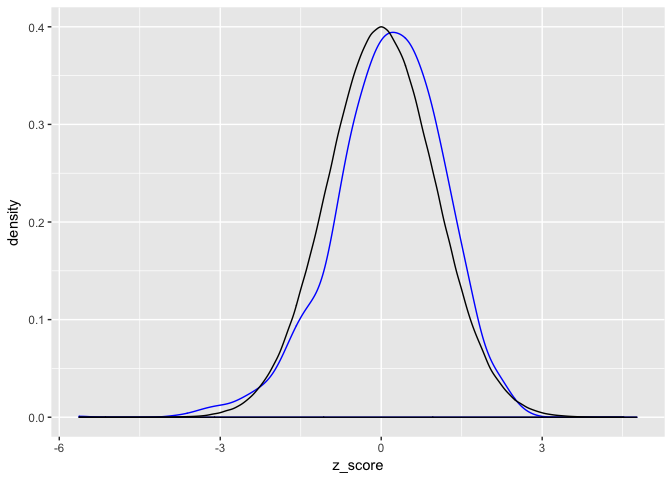
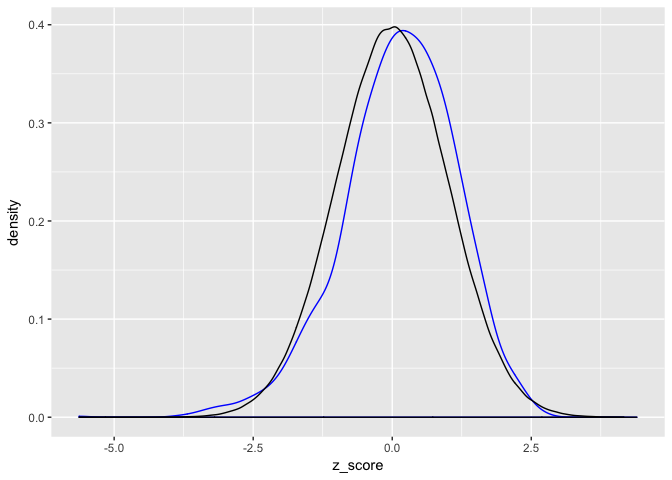
Updated and re-compiled the README

diff --git a/README.md b/README.md
@@ -1,7 +1,7 @@
 rubias --- genetic stock identification (GSI) in the tidyverse
 ==============================================================
 ================
-14 September, 2017
+18 December, 2017
 
 -   [Input Data](#input-data)
     -   [An example reference data file](#an-example-reference-data-file)
@@ -102,19 +102,19 @@ This is done with the `infer_mixture` function. In the example data `chinook_mix
 mix_est <- infer_mixture(reference = chinook, 
                          mixture = chinook_mix, 
                          gen_start_col = 5)
-#> Collating data; compiling reference allele frequencies, etc.   time: 3.56 seconds
-#> Computing reference locus specific means and variances for computing mixture z-scores   time: 0.28 seconds
+#> Collating data; compiling reference allele frequencies, etc.   time: 2.28 seconds
+#> Computing reference locus specific means and variances for computing mixture z-scores   time: 0.31 seconds
 #> Working on mixture collection: rec2 with 772 individuals
-#>   calculating log-likelihoods of the mixture individuals.   time: 0.12 seconds
-#>   performing 100 burn-in and 2000 more sweeps of method "MCMC"   time: 0.62 seconds
-#>   tidying output into a tibble.   time: 0.11 seconds
+#>   calculating log-likelihoods of the mixture individuals.   time: 0.13 seconds
+#>   performing 100 burn-in and 2000 more sweeps of method "MCMC"   time: 0.64 seconds
+#>   tidying output into a tibble.   time: 0.13 seconds
 #> Working on mixture collection: rec1 with 743 individuals
 #>   calculating log-likelihoods of the mixture individuals.   time: 0.11 seconds
-#>   performing 100 burn-in and 2000 more sweeps of method "MCMC"   time: 0.61 seconds
-#>   tidying output into a tibble.   time: 0.11 seconds
+#>   performing 100 burn-in and 2000 more sweeps of method "MCMC"   time: 0.63 seconds
+#>   tidying output into a tibble.   time: 0.12 seconds
 #> Working on mixture collection: rec3 with 741 individuals
 #>   calculating log-likelihoods of the mixture individuals.   time: 0.12 seconds
-#>   performing 100 burn-in and 2000 more sweeps of method "MCMC"   time: 0.60 seconds
+#>   performing 100 burn-in and 2000 more sweeps of method "MCMC"   time: 0.62 seconds
 #>   tidying output into a tibble.   time: 0.11 seconds
 ```
 
@@ -133,23 +133,23 @@ lapply(mix_est, head)
 #> # A tibble: 6 x 4
 #>   mixture_collection         repunit           collection           pi
 #>                <chr>           <chr>                <chr>        <dbl>
-#> 1               rec2 CentralValleyfa         Feather_H_sp 7.746633e-02
-#> 2               rec2 CentralValleysp          Butte_Cr_Sp 5.241380e-05
-#> 3               rec2 CentralValleysp           Mill_Cr_sp 7.748003e-05
-#> 4               rec2 CentralValleysp           Deer_Cr_sp 7.924887e-05
-#> 5               rec2 CentralValleysp UpperSacramento_R_sp 3.486181e-04
-#> 6               rec2 CentralValleyfa         Feather_H_fa 1.549169e-01
+#> 1               rec2 CentralValleyfa         Feather_H_sp 7.549900e-02
+#> 2               rec2 CentralValleysp          Butte_Cr_Sp 2.475748e-05
+#> 3               rec2 CentralValleysp           Mill_Cr_sp 5.416542e-05
+#> 4               rec2 CentralValleysp           Deer_Cr_sp 3.885431e-05
+#> 5               rec2 CentralValleysp UpperSacramento_R_sp 1.105380e-04
+#> 6               rec2 CentralValleyfa         Feather_H_fa 1.562998e-01
 #> 
 #> $indiv_posteriors
 #> # A tibble: 6 x 10
 #>   mixture_collection   indiv         repunit     collection         PofZ
 #>                <chr>   <chr>           <chr>          <chr>        <dbl>
-#> 1               rec2 T124711 CentralValleyfa   Feather_H_sp 1.768537e-28
-#> 2               rec2 T124711 CentralValleyfa   Feather_H_fa 1.013995e-27
-#> 3               rec2 T124711 CentralValleyfa    Butte_Cr_fa 1.549318e-24
-#> 4               rec2 T124711 CentralValleyfa     Mill_Cr_fa 4.934922e-29
-#> 5               rec2 T124711 CentralValleyfa     Deer_Cr_fa 6.065893e-29
-#> 6               rec2 T124711 CentralValleyfa Mokelumne_R_fa 1.802121e-27
+#> 1               rec2 T124711 CentralValleyfa   Feather_H_sp 1.735183e-28
+#> 2               rec2 T124711 CentralValleyfa   Feather_H_fa 1.030479e-27
+#> 3               rec2 T124711 CentralValleyfa    Butte_Cr_fa 1.537401e-24
+#> 4               rec2 T124711 CentralValleyfa     Mill_Cr_fa 1.810530e-29
+#> 5               rec2 T124711 CentralValleyfa     Deer_Cr_fa 2.616378e-28
+#> 6               rec2 T124711 CentralValleyfa Mokelumne_R_fa 1.877435e-27
 #> # ... with 5 more variables: log_likelihood <dbl>, z_score <dbl>,
 #> #   n_non_miss_loci <dbl>, n_miss_loci <dbl>, missing_loci <list>
 #> 
@@ -235,12 +235,12 @@ top6_cis
 #> # A tibble: 6 x 3
 #>                   repunit         loCI       hiCI
 #>                     <chr>        <dbl>      <dbl>
-#> 1         CaliforniaCoast 1.854064e-02 0.04319621
-#> 2         CentralValleyfa 7.917207e-01 0.84712308
-#> 3                KlamathR 4.879989e-02 0.08664488
-#> 4 NCaliforniaSOregonCoast 3.133804e-03 0.01782767
-#> 5                  RogueR 4.362364e-02 0.08123198
-#> 6          UColumbiaRsufa 2.179996e-24 0.01108570
+#> 1         CaliforniaCoast 1.813367e-02 0.04359228
+#> 2         CentralValleyfa 7.902512e-01 0.84657520
+#> 3                KlamathR 4.989110e-02 0.08669630
+#> 4 NCaliforniaSOregonCoast 3.206421e-03 0.01790917
+#> 5                  RogueR 4.509500e-02 0.08088104
+#> 6          UColumbiaRsufa 1.449912e-16 0.01238944
 ```
 
 Assessing whether individuals are not from any of the reference populations
@@ -423,12 +423,12 @@ top6
 #> # Groups:   mixture_collection [1]
 #>   mixture_collection                 repunit     repprop
 #>                <chr>                   <chr>       <dbl>
-#> 1               rec1         CentralValleyfa 0.820447954
-#> 2               rec1                KlamathR 0.066933892
-#> 3               rec1                  RogueR 0.061517017
-#> 4               rec1         CaliforniaCoast 0.029707172
-#> 5               rec1 NCaliforniaSOregonCoast 0.009124338
-#> 6               rec1          UColumbiaRsufa 0.003302783
+#> 1               rec1         CentralValleyfa 0.820476740
+#> 2               rec1                KlamathR 0.066985471
+#> 3               rec1                  RogueR 0.061915444
+#> 4               rec1         CaliforniaCoast 0.029904244
+#> 5               rec1 NCaliforniaSOregonCoast 0.009034470
+#> 6               rec1          UColumbiaRsufa 0.004200277
 ```
 
 We could, if we put those `repprop` values into a `ppn` column, simulate mixtures with exactly those proportions. Or if we wanted to simulate exact numbers of fish in a sample of 346 fish, we could get those values like this:
@@ -452,12 +452,12 @@ arep
 #> # A tibble: 6 x 2
 #>                   repunit  dirichlet
 #>                     <chr>      <dbl>
-#> 1         CentralValleyfa 8.20447954
-#> 2                KlamathR 0.66933892
-#> 3                  RogueR 0.61517017
-#> 4         CaliforniaCoast 0.29707172
-#> 5 NCaliforniaSOregonCoast 0.09124338
-#> 6          UColumbiaRsufa 0.03302783
+#> 1         CentralValleyfa 8.20476740
+#> 2                KlamathR 0.66985471
+#> 3                  RogueR 0.61915444
+#> 4         CaliforniaCoast 0.29904244
+#> 5 NCaliforniaSOregonCoast 0.09034470
+#> 6          UColumbiaRsufa 0.04200277
 ```
 
 Let's do some simulations with those repunit parameters. By default, if we don't specify anything extra for the *collections*, they get dirichlet parameters of 1.5.
@@ -542,7 +542,7 @@ chin_sims_with_indivs$indiv_posteriors
 #> #   PofZ <dbl>
 ```
 
-In this tibble: - `indiv` is an integer specifier of the simulated individual - `simulated_repunit` is the reporting unit the individual was simulated from - 'simulated\_collection`is the collection the simulated genotype came from -`PofZ\` is the mean over the MCMC of the posterior probability that the individual originated from the collection.
+In this tibble: - `indiv` is an integer specifier of the simulated individual - `simulated_repunit` is the reporting unit the individual was simulated from - `simulated_collection` is the collection the simulated genotype came from - `PofZ` is the mean over the MCMC of the posterior probability that the individual originated from the collection.
 
 Now that we have done that, we can see what the distribution of posteriors to the correct reporting unit is for fish from the different simulated collections. We'll do that with a boxplot, coloring by repunit:
 
@@ -645,12 +645,12 @@ arep
 #> # A tibble: 6 x 2
 #>                   repunit  dirichlet
 #>                     <chr>      <dbl>
-#> 1         CentralValleyfa 8.20447954
-#> 2                KlamathR 0.66933892
-#> 3                  RogueR 0.61517017
-#> 4         CaliforniaCoast 0.29707172
-#> 5 NCaliforniaSOregonCoast 0.09124338
-#> 6          UColumbiaRsufa 0.03302783
+#> 1         CentralValleyfa 8.20476740
+#> 2                KlamathR 0.66985471
+#> 3                  RogueR 0.61915444
+#> 4         CaliforniaCoast 0.29904244
+#> 5 NCaliforniaSOregonCoast 0.09034470
+#> 6          UColumbiaRsufa 0.04200277
 ```
 
 But, now, let's say that within reporting unit we want specific weights for different collections. Then we could specify those, for example, like this:
@@ -694,26 +694,26 @@ chin_sims_sub_ppn %>%
 #> # Groups:   repunit [6]
 #>                    repunit      collection      mean_pi repunit_mean_pi
 #>                      <chr>           <chr>        <dbl>           <dbl>
-#>  1         CaliforniaCoast           Eel_R 3.537176e-03     0.035371760
-#>  2         CaliforniaCoast       Russian_R 3.183458e-02     0.035371760
-#>  3         CentralValleyfa       Battle_Cr 8.285476e-08     0.828548120
-#>  4         CentralValleyfa     Butte_Cr_fa 5.799833e-01     0.828548120
-#>  5         CentralValleyfa      Deer_Cr_fa 8.285476e-08     0.828548120
-#>  6         CentralValleyfa    Feather_H_fa 8.285476e-08     0.828548120
-#>  7         CentralValleyfa    Feather_H_sp 2.485643e-01     0.828548120
-#>  8         CentralValleyfa      Mill_Cr_fa 8.285476e-08     0.828548120
-#>  9         CentralValleyfa  Mokelumne_R_fa 8.285476e-08     0.828548120
-#> 10         CentralValleyfa Sacramento_R_lf 8.285476e-08     0.828548120
-#> 11                KlamathR  Klamath_IGH_fa 3.033039e-02     0.060660773
-#> 12                KlamathR    Trinity_H_sp 3.033039e-02     0.060660773
-#> 13 NCaliforniaSOregonCoast        Chetco_R 5.388259e-03     0.010776518
-#> 14 NCaliforniaSOregonCoast         Smith_R 5.388259e-03     0.010776518
-#> 15                  RogueR    Applegate_Cr 2.742659e-02     0.054853175
-#> 16                  RogueR   Cole_Rivers_H 2.742659e-02     0.054853175
-#> 17          UColumbiaRsufa   Hanford_Reach 2.447413e-03     0.009789653
-#> 18          UColumbiaRsufa  PriestRapids_H 2.447413e-03     0.009789653
-#> 19          UColumbiaRsufa         Wells_H 2.447413e-03     0.009789653
-#> 20          UColumbiaRsufa     Wenatchee_R 2.447413e-03     0.009789653
+#>  1         CaliforniaCoast           Eel_R 3.450969e-03      0.03450969
+#>  2         CaliforniaCoast       Russian_R 3.105872e-02      0.03450969
+#>  3         CentralValleyfa       Battle_Cr 8.257985e-08      0.82579896
+#>  4         CentralValleyfa     Butte_Cr_fa 5.780589e-01      0.82579896
+#>  5         CentralValleyfa      Deer_Cr_fa 8.257985e-08      0.82579896
+#>  6         CentralValleyfa    Feather_H_fa 8.257985e-08      0.82579896
+#>  7         CentralValleyfa    Feather_H_sp 2.477395e-01      0.82579896
+#>  8         CentralValleyfa      Mill_Cr_fa 8.257985e-08      0.82579896
+#>  9         CentralValleyfa  Mokelumne_R_fa 8.257985e-08      0.82579896
+#> 10         CentralValleyfa Sacramento_R_lf 8.257985e-08      0.82579896
+#> 11                KlamathR  Klamath_IGH_fa 2.878091e-02      0.05756182
+#> 12                KlamathR    Trinity_H_sp 2.878091e-02      0.05756182
+#> 13 NCaliforniaSOregonCoast        Chetco_R 5.680403e-03      0.01136081
+#> 14 NCaliforniaSOregonCoast         Smith_R 5.680403e-03      0.01136081
+#> 15                  RogueR    Applegate_Cr 3.030309e-02      0.06060618
+#> 16                  RogueR   Cole_Rivers_H 3.030309e-02      0.06060618
+#> 17          UColumbiaRsufa   Hanford_Reach 2.540637e-03      0.01016255
+#> 18          UColumbiaRsufa  PriestRapids_H 2.540637e-03      0.01016255
+#> 19          UColumbiaRsufa         Wells_H 2.540637e-03      0.01016255
+#> 20          UColumbiaRsufa     Wenatchee_R 2.540637e-03      0.01016255
 #> # ... with 1 more variables: fract_within <dbl>
 ```
 
@@ -856,6 +856,23 @@ mix_est_pb <- infer_mixture(reference = chinook,
                          mixture = chinook_mix, 
                          gen_start_col = 5,
                          method = "PB")
+#> Collating data; compiling reference allele frequencies, etc.   time: 1.39 seconds
+#> Computing reference locus specific means and variances for computing mixture z-scores   time: 0.31 seconds
+#> Working on mixture collection: rec2 with 772 individuals
+#>   calculating log-likelihoods of the mixture individuals.   time: 0.13 seconds
+#>   performing 100 burn-in and 2000 more sweeps of method "MCMC"   time: 0.64 seconds
+#>   performing 100 bootstrapping rounds for method "PB"   time: 74.99 seconds
+#>   tidying output into a tibble.   time: 0.13 seconds
+#> Working on mixture collection: rec1 with 743 individuals
+#>   calculating log-likelihoods of the mixture individuals.   time: 0.12 seconds
+#>   performing 100 burn-in and 2000 more sweeps of method "MCMC"   time: 0.64 seconds
+#>   performing 100 bootstrapping rounds for method "PB"   time: 74.31 seconds
+#>   tidying output into a tibble.   time: 0.13 seconds
+#> Working on mixture collection: rec3 with 741 individuals
+#>   calculating log-likelihoods of the mixture individuals.   time: 0.11 seconds
+#>   performing 100 burn-in and 2000 more sweeps of method "MCMC"   time: 0.63 seconds
+#>   performing 100 bootstrapping rounds for method "PB"   time: 72.70 seconds
+#>   tidying output into a tibble.   time: 0.12 seconds
 ```
 
 And now we can compare the estimates, showing here the 10 most prevalent repunits, in the `rec1` fishery:
@@ -869,9 +886,22 @@ mix_est_pb$mixing_proportions %>%
   filter(mixture_collection == "rec1") %>%
   arrange(desc(repprop)) %>%
   slice(1:10)
+#> Joining, by = c("mixture_collection", "repunit")
+#> # A tibble: 10 x 4
+#>    mixture_collection                 repunit     repprop
+#>                 <chr>                   <chr>       <dbl>
+#>  1               rec1         CentralValleyfa 0.819805757
+#>  2               rec1                KlamathR 0.067744578
+#>  3               rec1                  RogueR 0.060168018
+#>  4               rec1         CaliforniaCoast 0.029746678
+#>  5               rec1 NCaliforniaSOregonCoast 0.009242693
+#>  6               rec1          UColumbiaRsufa 0.004457871
+#>  7               rec1          MidOregonCoast 0.003093241
+#>  8               rec1        MidColumbiaRtule 0.001727964
+#>  9               rec1                SnakeRfa 0.001607162
+#> 10               rec1         CentralValleysp 0.001325884
+#> # ... with 1 more variables: bs_corrected_repunit_ppn <dbl>
 ```
-
-This takes a long time, so it hasn't been evaluated here right yet.
 
 It gives us a result that we expect: no appreciable difference, because the reporting units are already very well resolved, so we don't expect that the parametric bootstrap procedure would find any benefit in correcting them.
 
